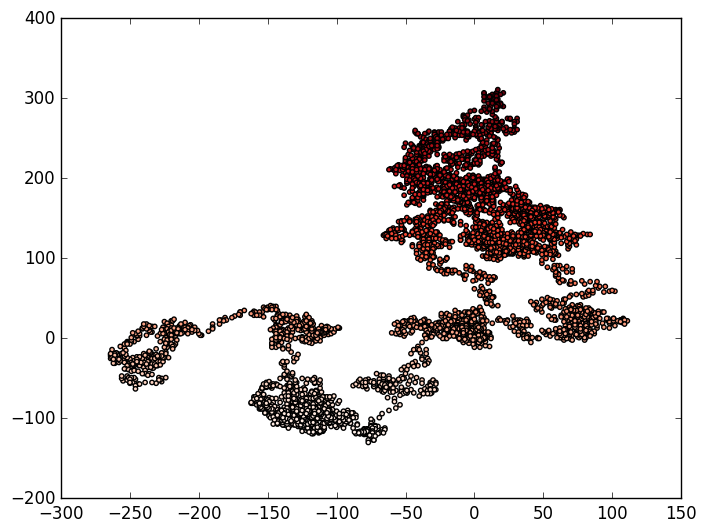
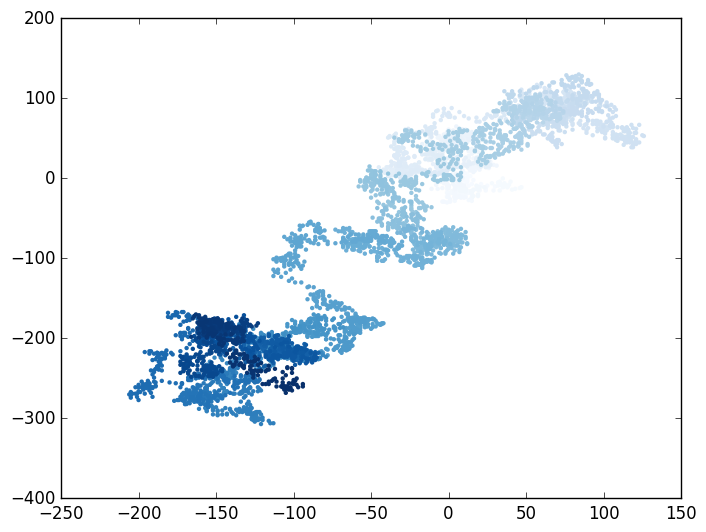
edgecolors='none' get rid of edge of black out line

diff --git a/randomWalk/random_visual.py b/randomWalk/random_visual.py
@@ -6,7 +6,8 @@ rw.fill_walk()
 
 plt.style.use('classic')
 fig ,ax=plt.subplots()
+point_nums=range(rw.num_points)
+ax.scatter(rw.x_values,rw.y_values,c=point_nums,cmap=plt.cm.Blues,edgecolors='none',s=10)
 
-ax.scatter(rw.x_values,rw.y_values,c=rw.y_values,cmap=plt.cm.Reds,s=10)
-
+#plt.show();
 plt.savefig('img\\random_walk.png',bbox_inches='tight')
